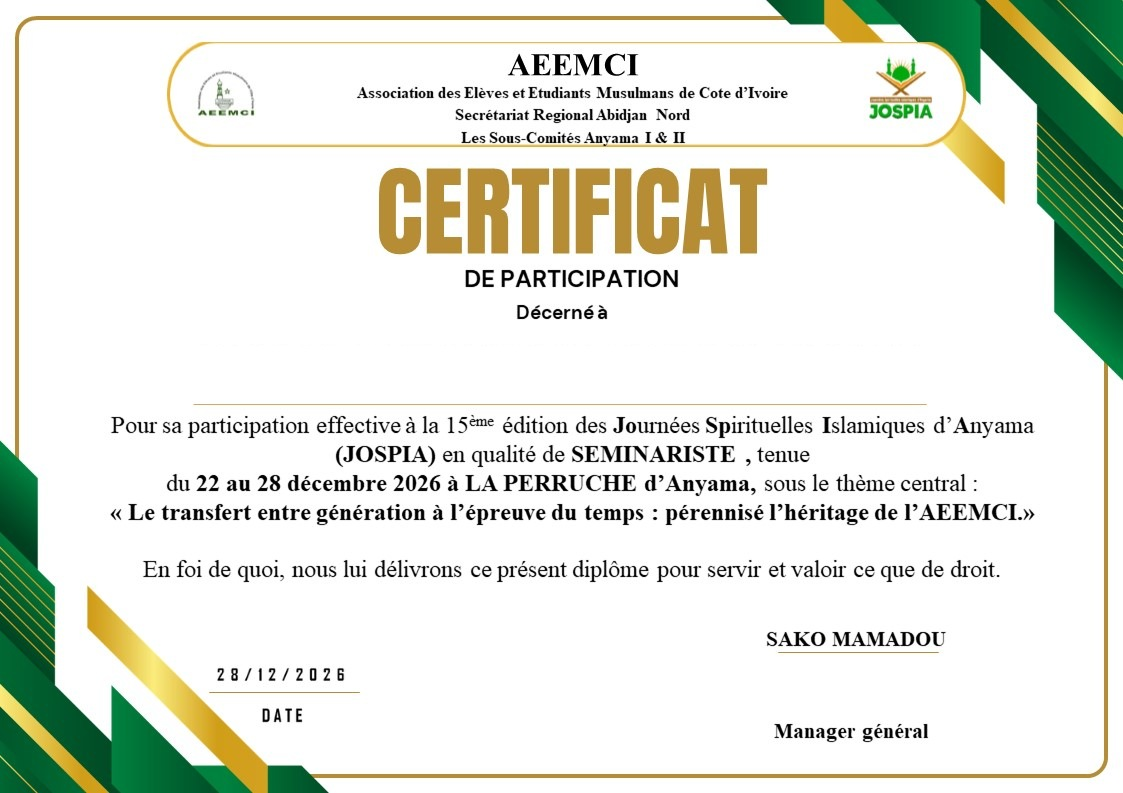
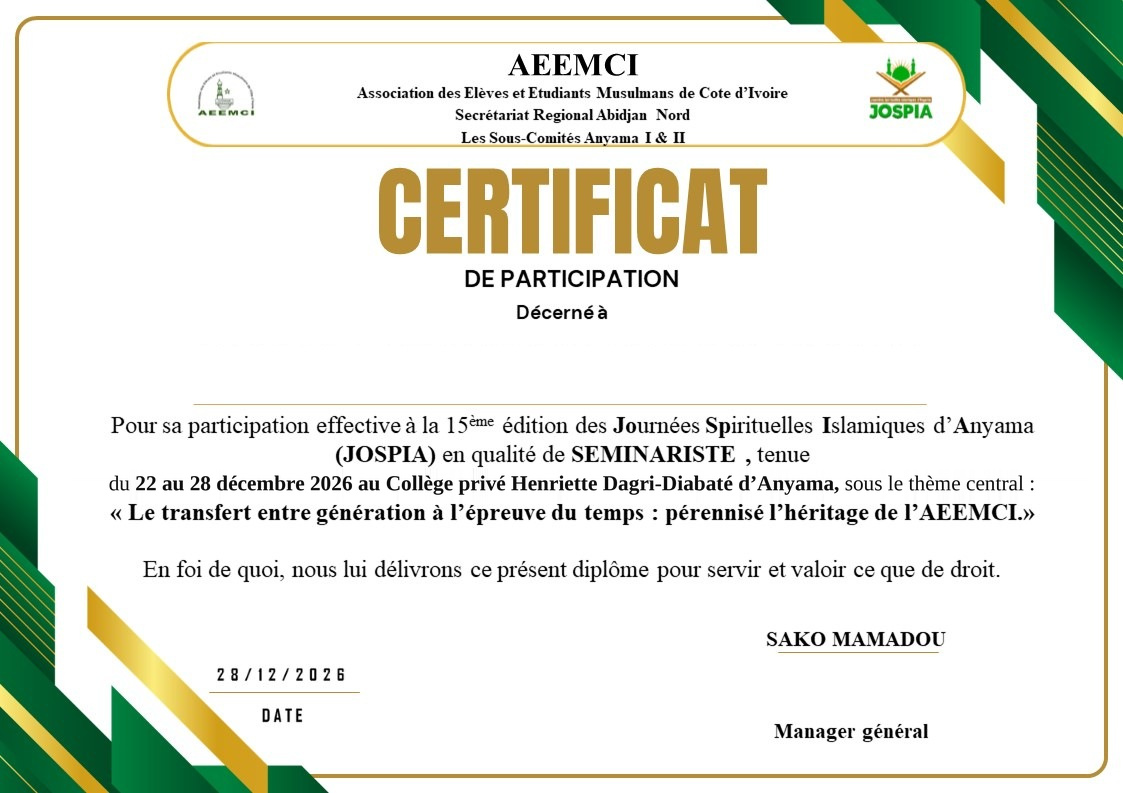
Lieu des certificats : Collège privé Henriette Dagri-Diabaté d'Anyama ; noms complets des commissions sur badges et certificats
Claude-Session: https://claude.ai/code/session_017P2zdgdufm25uF1Ag5Aj72

Changed region(s): [[0.0935, 0.575, 0.9038, 0.6356]]

diff --git a/assets/css/style.css b/assets/css/style.css
@@ -1008,6 +1008,18 @@ footer a { color: #fff; font-weight: 600; }
     -webkit-background-clip: text; background-clip: text; color: transparent; -webkit-text-fill-color: transparent;
     filter: drop-shadow(0 calc(var(--u) * 3) calc(var(--u) * 2) rgba(0,0,0,.3));
 }
+.jos-badge__com2 {
+    position: absolute; left: calc(var(--u) * 160); width: calc(var(--u) * 594);
+    top: calc(var(--u) * 980); height: calc(var(--u) * 100);
+    display: flex; align-items: center; justify-content: center;
+}
+.jos-badge__com2 .valeur {
+    flex: none; text-align: center; white-space: nowrap; font-weight: 800; text-transform: uppercase; letter-spacing: .01em;
+    font-size: calc(var(--u) * 42 * var(--fit, 1)); line-height: 1.02;
+    background: linear-gradient(180deg, #F0CF73 0%, #D6A93F 55%, #B98526 100%);
+    -webkit-background-clip: text; background-clip: text; color: transparent; -webkit-text-fill-color: transparent;
+    filter: drop-shadow(0 calc(var(--u) * 3) calc(var(--u) * 2) rgba(0,0,0,.3));
+}
 .jos-badge__com.large { left: calc(var(--u) * 160); width: calc(var(--u) * 594); }
 .jos-badge__com.large .deco { display: none; }
 

diff --git a/includes/pdf_docs.php b/includes/pdf_docs.php
@@ -128,6 +128,40 @@ function pdfBadgeSeminariste(PDO $pdo, array $s, $S = 1.25) {
     return $im;
 }
 
+
+/** Texte doré (dégradé) sur 1 ou plusieurs lignes centrées en ($cx, $cy). */
+function pdfTexteDore($im, $W, $H, array $lignes, $police, $taille, $cx, $cy) {
+    $inter = 1.02 * $taille; $n = count($lignes);
+    $maxL = 0;
+    foreach ($lignes as $l) { $maxL = max($maxL, pdfLargeurTexte($taille, $police, $l, 0.01 * $taille)); }
+    $tw = (int)ceil($maxL) + 12; $th = (int)ceil($n * $inter + $taille * 0.5);
+    $x0 = (int)floor($cx - $tw / 2); $y0 = (int)floor($cy - $n * $inter / 2 - $taille * 0.15);
+    if ($tw <= 0 || $th <= 0) return;
+    $masque = imagecreatetruecolor($tw, $th);
+    imagefill($masque, 0, 0, imagecolorallocate($masque, 0, 0, 0));
+    $bl = imagecolorallocate($masque, 255, 255, 255);
+    foreach ($lignes as $i => $l) {
+        $lw = pdfLargeurTexte($taille, $police, $l, 0.01 * $taille);
+        $centreLigne = $cy - $n * $inter / 2 + ($i + 0.5) * $inter;
+        pdfEcrire($masque, $taille, ($tw - $lw) / 2, pdfBaseline($police, $taille, $centreLigne) - $y0, $bl, $police, $l, 0.01 * $taille);
+    }
+    for ($j = 0; $j < $th; $j++) {
+        $t = $j / max(1, $th - 1);
+        if ($t < 0.55) { $k = $t / 0.55; $r = 0xF0 + (0xD6 - 0xF0) * $k; $g = 0xCF + (0xA9 - 0xCF) * $k; $b = 0x73 + (0x3F - 0x73) * $k; }
+        else { $k = ($t - 0.55) / 0.45; $r = 0xD6 + (0xB9 - 0xD6) * $k; $g = 0xA9 + (0x85 - 0xA9) * $k; $b = 0x3F + (0x26 - 0x3F) * $k; }
+        for ($i2 = 0; $i2 < $tw; $i2++) {
+            $a = imagecolorat($masque, $i2, $j) & 0xFF;
+            if ($a < 4) continue;
+            $px = $x0 + $i2; $py = $y0 + $j;
+            if ($px < 0 || $py < 0 || $px >= $W || $py >= $H) continue;
+            $dst = imagecolorat($im, $px, $py);
+            $dr = ($dst >> 16) & 255; $dg = ($dst >> 8) & 255; $db = $dst & 255; $al = $a / 255;
+            imagesetpixel($im, $px, $py, ((int)round($dr + ($r - $dr) * $al) << 16) | ((int)round($dg + ($g - $dg) * $al) << 8) | (int)round($db + ($b - $db) * $al));
+        }
+    }
+    imagedestroy($masque);
+}
+
 /** Badge Commission (vert) 904 x 1280 -> image GD. */
 function pdfBadgeCommission(PDO $pdo, array $m, $S = 1.25) {
     $W = (int)round(904 * $S); $H = (int)round(1280 * $S);
@@ -156,8 +190,18 @@ function pdfBadgeCommission(PDO $pdo, array $m, $S = 1.25) {
         pdfEcrire($im, $taille, $x, $y, $blanc, $police, $l, 0.01 * $taille);
     }
 
-    // Commission : texte doré entre deux filets
-    $com = mb_strtoupper((string)$m['commission'], 'UTF-8');
+    // Commission : texte doré entre deux filets (nom complet ; sur 2 lignes si long)
+    $com = mb_strtoupper(nomCommissionComplet($m['commission']), 'UTF-8');
+    if (mb_strlen($com, 'UTF-8') > 14) {
+        $lignesCom = josLignesNom($com);
+        $police = 'barlow-latin-800-normal.ttf';
+        $taille = 42 * $S; $maxL = 0;
+        foreach ($lignesCom as $l) { $maxL = max($maxL, pdfLargeurTexte($taille, $police, $l, 0.01 * $taille)); }
+        $dispo = 594 * $S * 0.96;
+        if ($maxL > $dispo) { $taille *= $dispo / $maxL; }
+        pdfTexteDore($im, $W, $H, $lignesCom, $police, $taille, (160 + 594 / 2) * $S, (980 + 100 / 2) * $S + 2 * $S);
+        return $im;
+    }
     $police = 'barlow-latin-800-normal.ttf';
     $bx = 232; $bw = 450; $by = 985; $bh = 90;
     $taille = 84 * $S;

diff --git a/tools/lieu_certificats.py b/tools/lieu_certificats.py
@@ -1,0 +1,56 @@
+"""Remplace le lieu (« LA PERRUCHE d'Anyama ») par le nom de l'école sur les deux modèles de certificat.
+Part des originaux de tools/modeles_originaux/ et écrit dans assets/img/modeles/."""
+import sys
+from PIL import Image, ImageDraw, ImageFont
+import numpy as np
+
+LIEU = "Collège privé Henriette Dagri-Diabaté d’Anyama,"
+FONTS = 'assets/fonts/ttf/tinos-latin-%s-normal.ttf'
+SS = 4  # suréchantillonnage
+
+CONFIG = [
+    # fichier, (x début effacement, x fin), (ligne propre au-dessus, ligne propre en dessous), haut du texte, taille, centre x, largeur max
+    dict(f='certificat.jpg', x=(136, 1186), clean=(532, 568), top=537, size=27.0, cx=660, maxw=1060),
+    dict(f='certificat_seminariste.jpg', x=(70, 1090), clean=(468, 502), top=474, size=23.7, cx=572, maxw=930),
+]
+
+def run(c):
+    im = Image.open('tools/modeles_originaux/' + c['f']).convert('RGB')
+    a = np.array(im).astype(float)
+    y0, y1 = c['clean']
+    x0, x1 = c['x']
+    # 1. effacer la ligne en interpolant verticalement le fond propre
+    for x in range(x0, x1):
+        top, bot = a[y0, x].copy(), a[y1, x].copy()
+        for y in range(y0 + 1, y1):
+            t = (y - y0) / (y1 - y0)
+            a[y, x] = top * (1 - t) + bot * t
+    im = Image.fromarray(a.clip(0, 255).astype('uint8'))
+
+    # 2. écrire la nouvelle ligne (gras pour la date et le lieu)
+    size = c['size']
+    def mesure(s):
+        fr = ImageFont.truetype(FONTS % '400', s); fb = ImageFont.truetype(FONTS % '700', s)
+        return fr.getlength('du ') + fb.getlength('22 au 28 décembre 2026 au ' + LIEU) + fr.getlength(' sous le thème central :')
+    while mesure(size) > c['maxw']:
+        size -= 0.1
+    big = ImageFont.truetype(FONTS % '700', size * SS); reg = ImageFont.truetype(FONTS % '400', size * SS)
+    total = mesure(size)
+    W, H = im.size
+    layer = Image.new('L', (W * SS, 80 * SS), 0)
+    d = ImageDraw.Draw(layer)
+    base = round((c['top'] + 0.683 * c['size']) * SS) - c['top'] * SS + 20 * SS  # ligne de base dans le calque
+    x = (c['cx'] - total / 2) * SS
+    for txt, fnt in [('du ', reg), ('22 au 28 décembre 2026 au ' + LIEU, big), (' sous le thème central :', reg)]:
+        d.text((x, base), txt, font=fnt, fill=255, anchor='ls')
+        x += fnt.getlength(txt)
+    layer = layer.resize((W, 80), Image.LANCZOS)
+    noir = Image.new('RGB', (W, 80), (12, 12, 12))
+    zone = im.crop((0, c['top'] - 20, W, c['top'] + 60))
+    zone.paste(noir, (0, 0), layer)
+    im.paste(zone, (0, c['top'] - 20))
+    im.save('assets/img/modeles/' + c['f'], quality=95, subsampling=0, optimize=True)
+    print(c['f'], 'taille finale', round(size, 1))
+
+for c in CONFIG:
+    run(c)

diff --git a/admin/parametres.php b/admin/parametres.php
@@ -26,7 +26,9 @@ if ($_SERVER['REQUEST_METHOD'] === 'POST') {
     if (!$erreurs) {
         $v['wave_numero'] = numeroLocal($v['wave_numero']);
         foreach ($bascules as $cle => $b) { $v[$cle] = isset($_POST[$cle]) ? '1' : '0'; }
-        $pdo->exec("CREATE TABLE IF NOT EXISTS parametres (cle VARCHAR(50) PRIMARY KEY, valeur VARCHAR(255) NOT NULL) ENGINE=InnoDB");
+        $v['noms_commissions'] = trim(str_replace("\r", '', $_POST['noms_commissions'] ?? ''));
+        $pdo->exec("CREATE TABLE IF NOT EXISTS parametres (cle VARCHAR(50) PRIMARY KEY, valeur TEXT NOT NULL) ENGINE=InnoDB");
+        try { $pdo->exec("ALTER TABLE parametres MODIFY valeur TEXT NOT NULL"); } catch (Throwable $e) { /* déjà TEXT */ }
         $st = $pdo->prepare("INSERT INTO parametres (cle, valeur) VALUES (?, ?) ON DUPLICATE KEY UPDATE valeur = VALUES(valeur)");
         foreach ($v as $cle => $val) { $st->execute([$cle, $val]); }
         $_SESSION['flash_succes'] = "Paramètres enregistrés.";
@@ -54,6 +56,17 @@ require_once __DIR__ . '/../includes/admin_nav.php';
             <?php foreach ($bascules as $cle => [$lib, $def]): ?>
                 <label class="option-item" style="display:block;margin-bottom:8px;"><input type="checkbox" name="<?= $cle ?>" value="1" <?= ($_SERVER['REQUEST_METHOD'] === 'POST' ? isset($_POST[$cle]) : parametre($cle, $def) === '1') ? 'checked' : '' ?>> <?= e($lib) ?></label>
             <?php endforeach; ?>
+            <h3 style="margin-top:20px;">Noms complets des commissions</h3>
+            <p class="help-text">Affichés sur les badges et les certificats. Une ligne par commission : <code>SIGLE = Nom complet</code>. Exemple : <code>MIC = Mobilisation, Information et Communication</code></p>
+            <?php
+            $noms = $_POST['noms_commissions'] ?? null;
+            if ($noms === null) {
+                $noms = [];
+                foreach (listeCommissions() as $c) { $noms[] = $c . ' = ' . nomCommissionComplet($c); }
+                $noms = implode("\n", $noms);
+            }
+            ?>
+            <textarea name="noms_commissions" rows="14" style="font-family:var(--police-mono);"><?= e($noms) ?></textarea>
             <button type="submit" class="btn btn-primaire" style="margin-top:14px;">Enregistrer les paramètres</button>
         </form>
         <p style="color:var(--texte-doux);margin-top:12px;">Les changements s'appliquent immédiatement à tout le site (page de paiement, inscriptions, test d'entrée...).</p>

diff --git a/includes/badge_commission_carte.php b/includes/badge_commission_carte.php
@@ -6,7 +6,9 @@
 $__avatar = BASE_URL . '/assets/img/avatar.svg';
 $__photo = !empty($membre['photo']) ? BASE_URL . '/uploads/photos/' . rawurlencode($membre['photo']) : $__avatar;
 $__lignes = josLignesNom($membre['nom_prenoms']);
-$__commission = mb_strtoupper((string)$membre['commission'], 'UTF-8');
+$__commission = mb_strtoupper(nomCommissionComplet($membre['commission']), 'UTF-8');
+$__comLongue = mb_strlen($__commission, 'UTF-8') > 14;
+$__comLignes = $__comLongue ? josLignesNom($__commission) : [$__commission];
 ?>
 <div class="jos-doc jos-badge">
     <div class="jos-doc__stage">
@@ -15,10 +17,16 @@ $__commission = mb_strtoupper((string)$membre['commission'], 'UTF-8');
         <div class="jos-badge__nom" data-fit="0.96">
             <?php foreach ($__lignes as $__l): ?><span><?= e($__l) ?></span><?php endforeach; ?>
         </div>
+        <?php if ($__comLongue): ?>
+        <div class="jos-badge__com2" data-fit="0.96">
+            <div class="valeur"><?= implode('<br>', array_map('e', $__comLignes)) ?></div>
+        </div>
+        <?php else: ?>
         <div class="jos-badge__com" data-fit="0.62">
             <div class="deco g"><i></i><b></b></div>
             <div class="valeur"><?= e($__commission) ?></div>
             <div class="deco d"><i></i><b></b></div>
         </div>
+        <?php endif; ?>
     </div>
 </div>

diff --git a/includes/functions.php b/includes/functions.php
@@ -87,6 +87,31 @@ function listeCommissions() {
     return ['MG', 'MGA', 'ADMINISTRATION', 'SCIENTIFIQUE', 'MIC', 'FINANCE', 'SANTÉ', 'SÉCURITÉ', 'HYGIÈNE', 'PÉPINIÈRE', 'RESTAURATION', 'LOGISTIQUE', 'PROTOCOLE'];
 }
 
+/**
+ * Noms complets des commissions (badges et certificats). Modifiables par le super administrateur
+ * dans « Paramètres du site » (une ligne par commission : SIGLE = Nom complet).
+ */
+function nomsCommissionsComplets() {
+    static $map = null;
+    if ($map !== null) return $map;
+    $map = [
+        'LOGISTIQUE' => 'Logistique et Transport',
+        'HYGIÈNE' => 'Hygiène et Cadre de vie',
+    ];
+    foreach (preg_split('/\R/u', (string)parametre('noms_commissions', '')) as $ligne) {
+        if (strpos($ligne, '=') === false) continue;
+        [$court, $long] = array_map('trim', explode('=', $ligne, 2));
+        if ($court !== '' && $long !== '') { $map[mb_strtoupper($court, 'UTF-8')] = $long; }
+    }
+    return $map;
+}
+
+function nomCommissionComplet($commission) {
+    $c = trim((string)$commission);
+    $map = nomsCommissionsComplets();
+    return $map[mb_strtoupper($c, 'UTF-8')] ?? $c;
+}
+
 /** Calcule le niveau d'affectation académique/spirituel à partir de la note /20 */
 function determinerNiveauTest($note) {
     if ($note < 5)  return 'Primaire';

diff --git a/includes/footer.php b/includes/footer.php
@@ -6,7 +6,7 @@
                     <img src="<?= BASE_URL ?>/assets/img/logo.jpg" alt="Logo JOSPIA">
                     <div><strong><?= e(EVENT_NAME) ?></strong><?= e(EVENT_FULL) ?></div>
                 </div>
-                <p style="margin:14px 0 0;max-width:30em;">Du <?= e(EVENT_JOUR_DEBUT) ?> au <?= e(EVENT_JOUR_FIN) ?> <?= e(mb_strtolower(EVENT_MOIS_ANNEE, 'UTF-8')) ?>, à La Perruche d'Anyama. Organisé par l'AEEMCI, secrétariat régional Abidjan Nord.</p>
+                <p style="margin:14px 0 0;max-width:30em;">Du <?= e(EVENT_JOUR_DEBUT) ?> au <?= e(EVENT_JOUR_FIN) ?> <?= e(mb_strtolower(EVENT_MOIS_ANNEE, 'UTF-8')) ?>, au Collège privé Henriette Dagri-Diabaté d'Anyama. Organisé par l'AEEMCI, secrétariat régional Abidjan Nord.</p>
             </div>
             <div>
                 <h4>S'inscrire</h4>

diff --git a/admin/download_diplome_membre.php b/admin/download_diplome_membre.php
@@ -18,7 +18,7 @@ require_once __DIR__ . '/../includes/header.php';
             <a href="<?= BASE_URL ?>/admin/pdf?type=diplome_com&id=<?= (int)$membre['id'] ?>" class="btn btn-primaire">⬇ Télécharger le diplôme en PDF (A4)</a>
         </div>
         <?php require __DIR__ . '/../includes/astuce_impression.php'; ?>
-        <?php $nomCertificat = $membre['nom_prenoms']; $qualiteCertificat = 'MEMBRE DE LA COMMISSION ' . $membre['commission']; require __DIR__ . '/../includes/certificat_carte.php'; ?>
+        <?php $nomCertificat = $membre['nom_prenoms']; $qualiteCertificat = 'MEMBRE DE LA COMMISSION ' . nomCommissionComplet($membre['commission']); require __DIR__ . '/../includes/certificat_carte.php'; ?>
     </div>
 </section>
 <?php require_once __DIR__ . '/../includes/footer.php'; ?>

diff --git a/espace/fiche.php b/espace/fiche.php
@@ -73,7 +73,7 @@ require_once __DIR__ . '/../includes/header.php';
 
         <div class="carte" style="margin-top:24px;">
             <h3>Mon diplôme</h3>
-            <?php $nomCertificat = $membre['nom_prenoms']; $qualiteCertificat = 'MEMBRE DE LA COMMISSION ' . $membre['commission']; require __DIR__ . '/../includes/certificat_carte.php'; ?>
+            <?php $nomCertificat = $membre['nom_prenoms']; $qualiteCertificat = 'MEMBRE DE LA COMMISSION ' . nomCommissionComplet($membre['commission']); require __DIR__ . '/../includes/certificat_carte.php'; ?>
             <div class="acces-restreint" style="margin-top:14px;">
                 🔒 Le téléchargement / impression du diplôme est réservé aux administrateurs.
             </div>

diff --git a/admin/pdf.php b/admin/pdf.php
@@ -39,7 +39,7 @@ switch ($type) {
     case 'diplome_com':
         $l = lignesPar($pdo, 'membres_commission', $ids, false);
         if (!$l) { die("Membre introuvable."); }
-        pdfDiplomesA4($l, function ($m) { return pdfDiplomeCommission($m['nom_prenoms'], 'MEMBRE DE LA COMMISSION ' . $m['commission']); }, 'diplome_' . preg_replace('/[^A-Za-z0-9]+/', '_', $l[0]['nom_prenoms']) . '.pdf');
+        pdfDiplomesA4($l, function ($m) { return pdfDiplomeCommission($m['nom_prenoms'], 'MEMBRE DE LA COMMISSION ' . nomCommissionComplet($m['commission'])); }, 'diplome_' . preg_replace('/[^A-Za-z0-9]+/', '_', $l[0]['nom_prenoms']) . '.pdf');
     default:
         http_response_code(400);
         die('Type de document inconnu.');

diff --git a/index.php b/index.php
@@ -29,7 +29,7 @@ $dateEvenement = (substr(EVENT_NAME, -4)) . '-12-' . str_pad(EVENT_JOUR_DEBUT, 2
                     <div class="arche-dates">
                         <strong><?= e(EVENT_JOUR_DEBUT) ?> - <?= e(EVENT_JOUR_FIN) ?></strong>
                         <span><?= e(mb_convert_case(EVENT_MOIS_ANNEE, MB_CASE_TITLE, 'UTF-8')) ?></span>
-                        <small>La Perruche d'Anyama</small>
+                        <small>Collège privé Henriette Dagri-Diabaté d'Anyama</small>
                     </div>
                 </div>
             </div>
